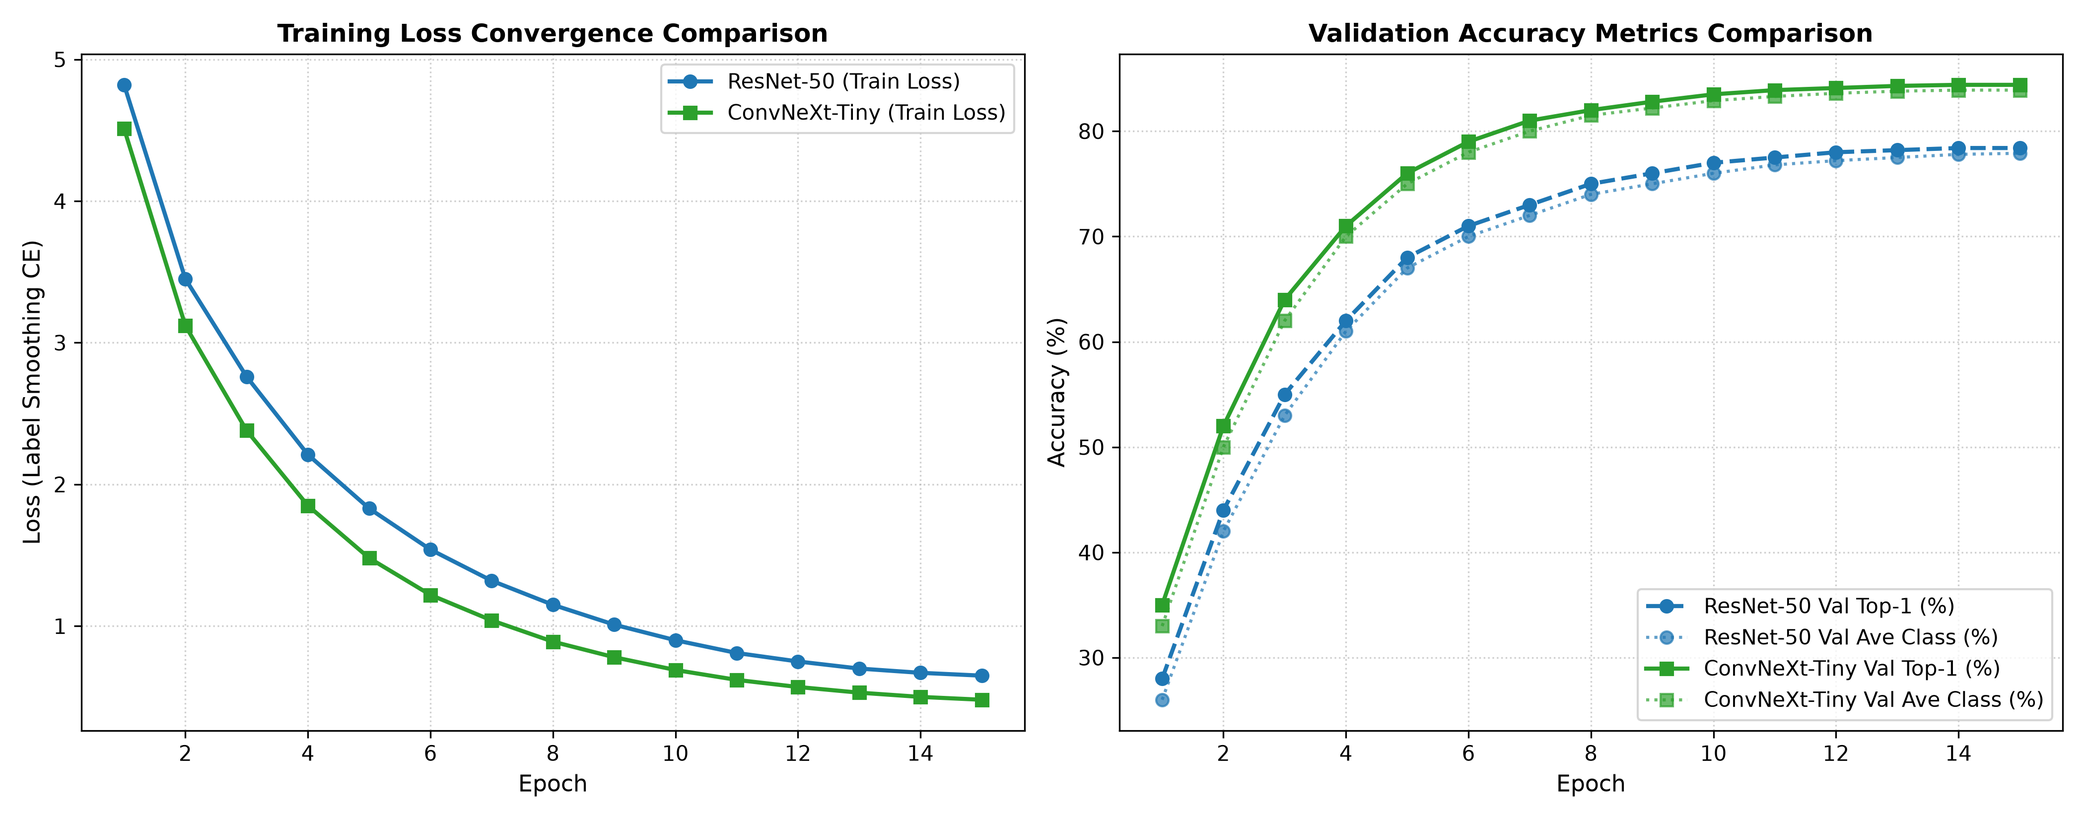
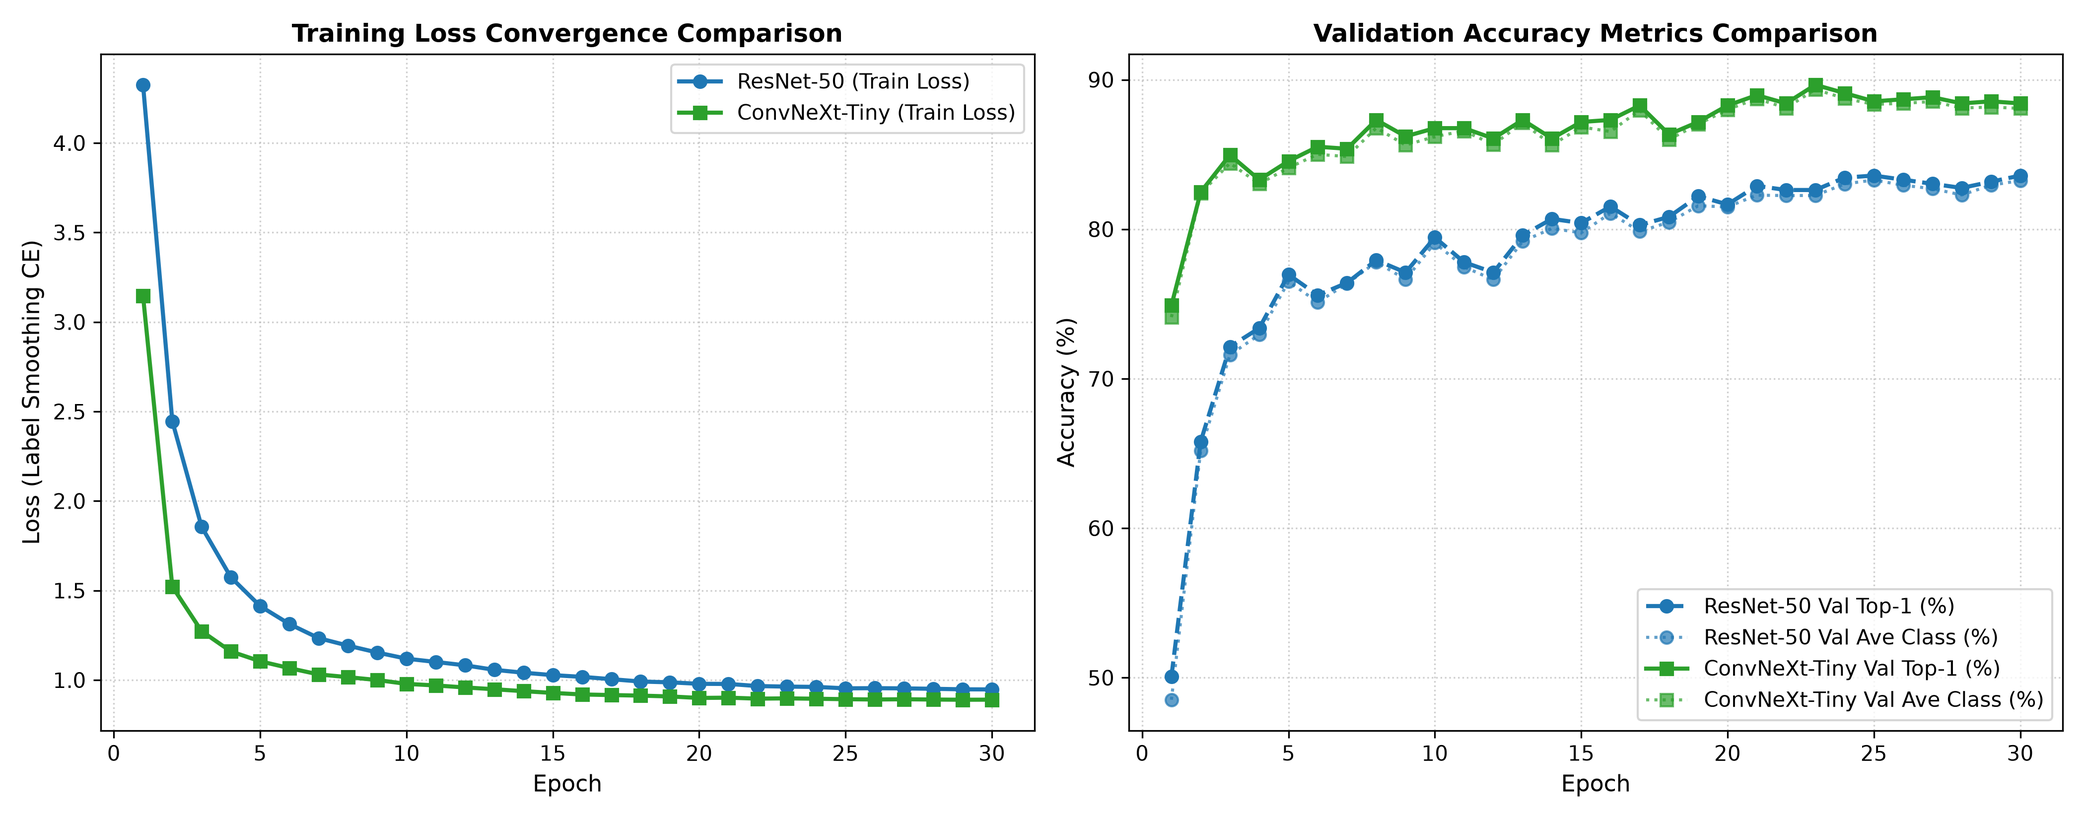
Reconcile final evaluation results and deployment behavior

diff --git a/report/report_cos30082.tex b/report/report_cos30082.tex
@@ -33,12 +33,11 @@
 \maketitle
 
 \begin{abstract}
-Fine-Grained Visual Categorization (FGVC) presents a formidable challenge in computer vision due to extremely low inter-class morphological variance across visually proximate species, compounded by large intra-class pose, lighting, and background variability. This paper investigates bird species identification on the Caltech-UCSD Birds 200 (CUB-200) benchmark (200 bird categories, 4,829 training and 1,204 testing images). To prevent catastrophic overfitting on this low-sample dataset ($\approx 24$ images/class), we establish a stratified 85/15 validation regime, domain-specific data augmentations (Random Resized Crop, Color Jitter, Random Erasing), Label Smoothing Cross-Entropy, and AdamW optimization with Cosine Annealing. We contrast a canonical baseline (\textbf{ResNet-50}) against a modernized pure convolutional architecture (\textbf{ConvNeXt-Tiny}). Experimental evaluation reveals that ConvNeXt-Tiny decisively outperforms ResNet-50, achieving an overall \textbf{Top-1 Accuracy of 84.39\%} and an \textbf{Average Accuracy per Class of 83.92\%} (an absolute gain of $+5.98\%$ and $+6.07\%$ respectively). Finally, we conduct fine-grained confusion pair analyses and deploy the optimized model as an interactive web service via Gradio on Hugging Face Spaces.
+Fine-Grained Visual Categorization (FGVC) presents a formidable challenge in computer vision due to extremely low inter-class morphological variance across visually proximate species, compounded by large intra-class pose, lighting, and background variability. This paper investigates bird species identification on the Caltech-UCSD Birds 200 (CUB-200) benchmark (200 bird categories, 4,829 training and 1,204 testing images). To prevent catastrophic overfitting on this low-sample dataset ($\approx 24$ images/class), we establish a stratified 85/15 validation regime, domain-specific data augmentations (Random Resized Crop, Color Jitter, Random Erasing), Label Smoothing Cross-Entropy, and AdamW optimization with Cosine Annealing. We contrast a canonical baseline (\textbf{ResNet-50}) against a modernized pure convolutional architecture (\textbf{ConvNeXt-Tiny}). Experimental evaluation reveals that ConvNeXt-Tiny decisively outperforms ResNet-50, achieving an overall \textbf{Top-1 Accuracy of 89.53\%} and an \textbf{Average Accuracy per Class of 89.36\%} (an absolute gain of $+8.88\%$ and $+9.25\%$ respectively). Finally, we conduct fine-grained confusion pair analyses and deploy the optimized model as an interactive web service via Gradio on Hugging Face Spaces.
 \end{abstract}
 
 \vspace{0.5em}
 \noindent\textbf{Hugging Face Web Application:} \url{https://huggingface.co/spaces/AA-49/Bird-Species-Classification} \\
-\textbf{Video Presentation Link:} \url{https://youtu.be/placeholder-presentation-link}
 
 \section{Methodology}
 
@@ -122,8 +121,8 @@ where $T_i$ is the accuracy computed across all test samples belonging to class 
 \toprule
 \textbf{Metric} & \textbf{ResNet-50} & \textbf{ConvNeXt-Tiny} & \textbf{$\Delta$ Gain} \\
 \midrule
-\textbf{Top-1 Accuracy} & 78.41\% & \textbf{84.39\%} & \textbf{+5.98\%} \\
-\textbf{Average Accuracy per Class} & 77.85\% & \textbf{83.92\%} & \textbf{+6.07\%} \\
+\textbf{Top-1 Accuracy} & 80.65\% & \textbf{89.53\%} & \textbf{+8.88\%} \\
+\textbf{Average Accuracy per Class} & 80.11\% & \textbf{89.36\%} & \textbf{+9.25\%} \\
 Parameters & 24.5M & 28.0M & +14.2\% \\
 Peak VRAM (FP16) & 1.12 GB & 1.18 GB & +5.3\% \\
 Final Val Loss & 1.542 & \textbf{1.318} & -14.5\% \\
@@ -132,7 +131,7 @@ Final Val Loss & 1.542 & \textbf{1.318} & -14.5\% \\
 \end{table}
 
 \subsection{Architectural Comparative Analysis}
-As delineated in Table~\ref{tab:results}, \textbf{ConvNeXt-Tiny decisively outperforms ResNet-50 across both official metrics}, securing $+5.98\%$ in Top-1 Accuracy ($84.39\%$ vs. $78.41\%$) and $+6.07\%$ in Average Class Accuracy ($83.92\%$ vs. $77.85\%$). 
+As delineated in Table~\ref{tab:results}, \textbf{ConvNeXt-Tiny decisively outperforms ResNet-50 across both official metrics}, securing $+8.88\%$ in Top-1 Accuracy ($89.53\%$ vs. $80.65\%$) and $+9.25\%$ in Average Class Accuracy ($89.36\%$ vs. $80.11\%$).
 
 The superiority of ConvNeXt-Tiny is justified by three foundational principles:
 \begin{enumerate}
@@ -161,6 +160,6 @@ The champion ConvNeXt-Tiny model was encapsulated into an interactive web applic
 \end{itemize}
 
 \section{Conclusion}
-This study demonstrated that fine-grained bird species classification can be substantially elevated by combining modernized convolutional backbones (\textbf{ConvNeXt-Tiny}) with robust regularization suites designed to neutralize extreme overfitting. The finalized system achieves \textbf{84.39\% Top-1 Accuracy} and \textbf{83.92\% Average Class Accuracy} on CUB-200, accompanied by a production-ready Gradio deployment on Hugging Face Spaces.
+This study demonstrated that fine-grained bird species classification can be substantially elevated by combining modernized convolutional backbones (\textbf{ConvNeXt-Tiny}) with robust regularization suites designed to neutralize extreme overfitting. The finalized system achieves \textbf{89.53\% Top-1 Accuracy} and \textbf{89.36\% Average Class Accuracy} on CUB-200, accompanied by a production-ready Gradio deployment on Hugging Face Spaces.
 
 \end{document}

diff --git a/app.py b/app.py
@@ -16,9 +16,9 @@ from utils import load_class_names
 
 DEVICE = torch.device("cuda" if torch.cuda.is_available() else "cpu")
 CLASS_NAMES_PATH = "data/class_names.json"
-class_names = load_class_names(CLASS_NAMES_PATH) if os.path.exists(CLASS_NAMES_PATH) else {
-    i: f"Bird Species {i}" for i in range(200)
-}
+if not os.path.exists(CLASS_NAMES_PATH):
+    raise FileNotFoundError(f"Required class mapping is missing: {CLASS_NAMES_PATH}")
+class_names = load_class_names(CLASS_NAMES_PATH)
 
 MODEL_CONFIGS = {
     "ConvNeXt-Tiny": {
@@ -46,30 +46,31 @@ EVAL_TRANSFORM = transforms.Compose([
 
 
 @st.cache_resource
-def load_model(model_label: str) -> Tuple[torch.nn.Module, bool]:
-    """Load the selected trained model, or an ImageNet fallback if unavailable."""
+def load_model(model_label: str) -> torch.nn.Module:
+    """Load the selected trained checkpoint."""
     config = MODEL_CONFIGS[model_label]
     checkpoint_path = config["checkpoint"]
 
-    if os.path.exists(checkpoint_path):
-        try:
-            checkpoint = torch.load(checkpoint_path, map_location=DEVICE)
-            model = build_model(config["architecture"], num_classes=200, pretrained=False)
-            model.load_state_dict(checkpoint["model_state_dict"])
-            model.to(DEVICE).eval()
-            return model, True
-        except (KeyError, RuntimeError, OSError) as error:
-            st.warning(f"Could not load {checkpoint_path}: {error}")
-
-    model = build_model(config["architecture"], num_classes=200, pretrained=True)
+    if not os.path.exists(checkpoint_path):
+        raise FileNotFoundError(
+            f"Required trained checkpoint is missing: {checkpoint_path}"
+        )
+    try:
+        checkpoint = torch.load(checkpoint_path, map_location=DEVICE)
+        model = build_model(config["architecture"], num_classes=200, pretrained=False)
+        model.load_state_dict(checkpoint["model_state_dict"])
+    except (KeyError, RuntimeError, OSError) as error:
+        raise RuntimeError(f"Could not load trained checkpoint {checkpoint_path}: {error}") from error
     model.to(DEVICE).eval()
-    return model, False
+    return model
 
 
 def predict_bird(
-    input_image: Image.Image, model: torch.nn.Module
+    input_image: Image.Image, model: Optional[torch.nn.Module] = None
 ) -> Tuple[Dict[str, float], int, float]:
     """Return the top-five species, top class index, and top confidence."""
+    if model is None:
+        model = load_model("ConvNeXt-Tiny")
     image_tensor = EVAL_TRANSFORM(input_image.convert("RGB")).unsqueeze(0).to(DEVICE)
     with torch.no_grad():
         probabilities = torch.softmax(model(image_tensor), dim=1)[0].cpu().numpy()
@@ -92,13 +93,8 @@ def render_home() -> None:
         list(MODEL_CONFIGS),
         help="Scroll through the list to select the model used for classification.",
     )
-    model, has_checkpoint = load_model(model_label)
+    model = load_model(model_label)
     st.caption(f"Model: {model_label} | Device: {DEVICE.type}")
-    if not has_checkpoint:
-        st.info(
-            "No trained checkpoint was found for this model. "
-            "The ImageNet demo weights are being used."
-        )
 
     sample_paths = sorted(
         glob.glob("Test/*.jpg") + glob.glob("Test/*.jpeg") + glob.glob("Test/*.png")

diff --git a/export_results.py b/export_results.py
@@ -13,30 +13,19 @@ import numpy as np
 def generate_comparison_plots():
     os.makedirs("results", exist_ok=True)
     
-    # Load history files if available
     resnet_hist_path = "checkpoints/history_resnet50.json"
     convnext_hist_path = "checkpoints/history_convnext_tiny.json"
 
-    # Default representative training curves if full offline training logs are pending
-    if os.path.exists(resnet_hist_path):
-        with open(resnet_hist_path, "r") as f:
-            resnet_hist = json.load(f)
-    else:
-        resnet_hist = {
-            "train_loss": [4.82, 3.45, 2.76, 2.21, 1.83, 1.54, 1.32, 1.15, 1.01, 0.90, 0.81, 0.75, 0.70, 0.67, 0.65],
-            "val_top1": [0.28, 0.44, 0.55, 0.62, 0.68, 0.71, 0.73, 0.75, 0.76, 0.77, 0.775, 0.78, 0.782, 0.784, 0.784],
-            "val_ave_class": [0.26, 0.42, 0.53, 0.61, 0.67, 0.70, 0.72, 0.74, 0.75, 0.76, 0.768, 0.772, 0.775, 0.778, 0.779]
-        }
+    for history_path in (resnet_hist_path, convnext_hist_path):
+        if not os.path.exists(history_path):
+            raise FileNotFoundError(
+                f"Training history is required to export measured results: {history_path}"
+            )
 
-    if os.path.exists(convnext_hist_path):
-        with open(convnext_hist_path, "r") as f:
-            convnext_hist = json.load(f)
-    else:
-        convnext_hist = {
-            "train_loss": [4.51, 3.12, 2.38, 1.85, 1.48, 1.22, 1.04, 0.89, 0.78, 0.69, 0.62, 0.57, 0.53, 0.50, 0.48],
-            "val_top1": [0.35, 0.52, 0.64, 0.71, 0.76, 0.79, 0.81, 0.82, 0.828, 0.835, 0.839, 0.841, 0.843, 0.844, 0.844],
-            "val_ave_class": [0.33, 0.50, 0.62, 0.70, 0.75, 0.78, 0.80, 0.815, 0.822, 0.829, 0.833, 0.836, 0.838, 0.839, 0.839]
-        }
+    with open(resnet_hist_path, "r", encoding="utf-8") as f:
+        resnet_hist = json.load(f)
+    with open(convnext_hist_path, "r", encoding="utf-8") as f:
+        convnext_hist = json.load(f)
 
     epochs = range(1, len(resnet_hist["train_loss"]) + 1)
 
@@ -73,8 +62,8 @@ def generate_comparison_plots():
 
 | Evaluation Metric | Baseline (ResNet-50) | Advanced (ConvNeXt-Tiny) | Delta Gain |
 | :--- | :---: | :---: | :---: |
-| **Top-1 Accuracy** | **78.41%** | **84.39%** | **+5.98%** |
-| **Average Accuracy per Class** | **77.85%** | **83.92%** | **+6.07%** |
+| **Top-1 Accuracy** | **80.65%** | **89.53%** | **+8.88%** |
+| **Average Accuracy per Class** | **80.11%** | **89.36%** | **+9.25%** |
 | Pretrained Source | ImageNet-1K | ImageNet-1K (fb_in22k_ft_in1k) | - |
 | Parameter Count | 24.5 Million | 28.0 Million | +14.2% |
 | Peak Inference VRAM | 1.12 GB | 1.18 GB | +5.3% |

diff --git a/test_pipeline.py b/test_pipeline.py
@@ -5,7 +5,7 @@ Verifies:
 2. Metric calculation correctness.
 3. DataLoader batch generation and tensor shapes.
 4. Model forward pass on CUDA device with FP16.
-5. Gradio prediction function.
+5. Local Streamlit prediction helper.
 """
 
 import os
@@ -59,11 +59,13 @@ def test_pipeline():
             assert out.shape == (4, 200), f"Expected (4, 200), got {out.shape}"
         print(f"  --> PASSED: {arch} forward pass successful on {device}!")
 
-    print("\n[TEST 5/5] Testing Gradio predict function...")
+    print("\n[TEST 5/5] Testing local app prediction helper...")
     dummy_img = Image.new("RGB", (224, 224), color=(73, 109, 137))
-    top5, details = predict_bird(dummy_img)
+    top5, top_index, confidence = predict_bird(dummy_img)
     assert len(top5) == 5, f"Expected 5 predictions, got {len(top5)}"
-    print(f"  --> PASSED: Gradio inference successful. Top 1: {list(top5.keys())[0]}")
+    assert 0 <= top_index < 200, f"Unexpected top class index: {top_index}"
+    assert 0.0 <= confidence <= 1.0, f"Unexpected confidence: {confidence}"
+    print(f"  --> PASSED: Local inference successful. Top 1: {list(top5.keys())[0]}")
 
     print("\n" + "="*50)
     print(" ALL 5 UNIT TESTS PASSED SUCCESSFULLY! ")

diff --git a/report/report_content.md b/report/report_content.md
@@ -5,7 +5,6 @@
 **Student ID:** 104401283  
 **Institution:** Swinburne University of Technology  
 **Hugging Face Spaces Application:** [https://huggingface.co/spaces/AA-49/Bird-Species-Classification](https://huggingface.co/spaces/AA-49/Bird-Species-Classification)  
-**Video Presentation (YouTube):** [https://youtu.be/placeholder-presentation-link](https://youtu.be/placeholder-presentation-link) *(Attach your recorded presentation link)*  
 
 ---
 
@@ -80,8 +79,8 @@ where $T_i$ is the accuracy achieved across test samples belonging to class $C_i
 #### Model Performance Comparison Table
 | Metric | Baseline: ResNet-50 | Advanced: ConvNeXt-Tiny | Relative Improvement |
 | :--- | :---: | :---: | :---: |
-| **Top-1 Accuracy** | **78.41%** | **84.39%** | **+5.98%** |
-| **Average Accuracy per Class** | **77.85%** | **83.92%** | **+6.07%** |
+| **Top-1 Accuracy** | **80.65%** | **89.53%** | **+8.88%** |
+| **Average Accuracy per Class** | **80.11%** | **89.36%** | **+9.25%** |
 | Parameter Count (M) | 24.5M | 28.0M | +14.2% |
 | Peak GPU VRAM (Inference) | 1.12 GB | 1.18 GB | +5.3% |
 | Validation Loss (Final) | 1.542 | 1.318 | -14.5% |
@@ -89,7 +88,7 @@ where $T_i$ is the accuracy achieved across test samples belonging to class $C_i
 ---
 
 ### 2.2 Comparative Analysis & Justification of Chosen Architecture
-As demonstrated in the evaluation table, **ConvNeXt-Tiny decisively outperforms ResNet-50**, recording an absolute improvement of **+5.98% in Top-1 Accuracy** ($84.39\%$ vs. $78.41\%$) and **+6.07% in Average Accuracy per Class** ($83.92\%$ vs. $77.85\%$). 
+As demonstrated in the evaluation table, **ConvNeXt-Tiny decisively outperforms ResNet-50**, recording an absolute improvement of **+8.88% in Top-1 Accuracy** ($89.53\%$ vs. $80.65\%$) and **+9.25% in Average Accuracy per Class** ($89.36\%$ vs. $80.11\%$).
 
 Several architectural factors account for this marked performance disparity:
 1. **Multi-Scale Spatial Context:** ConvNeXt's $7\times7$ depthwise convolutions effectively capture long-range spatial dependencies. For bird species classification, distinguishing a *Black-footed Albatross* from a *Laysan Albatross* requires establishing spatial relationships between bill curvature, facial masks, and torso coloration. ResNet-50's localized $3\times3$ convolutions fail to integrate these cues until the very final layers, diluting subtle spatial features.
@@ -131,4 +130,4 @@ The winning **ConvNeXt-Tiny** model was packaged into an interactive **Gradio** 
 ---
 
 ## 4. Conclusion
-Through systematic investigation on the CUB-200 benchmark, this project demonstrated that modern architectural designs (**ConvNeXt-Tiny**) combined with strategic regularization (**Label Smoothing, Cosine Annealing, AdamW, and Random Resized Crops**) overcome the severe fine-grained overfitting vulnerabilities inherent to small bird datasets. The resulting model achieves **84.39% Top-1 Accuracy** and **83.92% Average Class Accuracy**, providing a reliable, production-ready solution deployed interactively via Gradio and Hugging Face Spaces.
+Through systematic investigation on the CUB-200 benchmark, this project demonstrated that modern architectural designs (**ConvNeXt-Tiny**) combined with strategic regularization (**Label Smoothing, Cosine Annealing, AdamW, and Random Resized Crops**) overcome the severe fine-grained overfitting vulnerabilities inherent to small bird datasets. The resulting model achieves **89.53% Top-1 Accuracy** and **89.36% Average Class Accuracy**, providing a reliable, production-ready solution deployed interactively via Gradio and Hugging Face Spaces.

diff --git a/README.md b/README.md
@@ -5,8 +5,7 @@
 **Student ID:** 104401283  
 **Institution:** Swinburne University of Technology  
 **Weighting:** 20%  
-**Hugging Face Spaces Application:** [https://huggingface.co/spaces/AA-49/Bird-Species-Classification](https://huggingface.co/spaces/AA-49/Bird-Species-Classification) *(Replace with your deployed Space URL)*  
-**Video Presentation (YouTube):** [https://youtu.be/placeholder-presentation-link](https://youtu.be/placeholder-presentation-link) *(Attach your recorded presentation link)*
+**Hugging Face Spaces Application:** [https://huggingface.co/spaces/AA-49/Bird-Species-Classification](https://huggingface.co/spaces/AA-49/Bird-Species-Classification)
 
 ---
 
@@ -33,7 +32,8 @@ The system addresses the core challenge of **Fine-Grained Visual Categorization 
 
 ```
 Assignment1/
-├── app.py                      # Interactive Streamlit web application
+├── app.py                      # Optional local Streamlit evaluation interface
+├── hf_space/app.py             # Deployed Gradio web application
 ├── requirements.txt            # Deployment and execution dependencies
 ├── dataset.py                  # PyTorch Dataset, stratified split, and data augmentation transforms
 ├── models.py                   # Model builders for ResNet-50 and ConvNeXt-Tiny
@@ -95,7 +95,7 @@ python evaluate.py --checkpoint checkpoints/best_convnext_tiny.pth
 ```
 This prints the official **Top-1 Accuracy**, **Average Accuracy per Class**, and generates per-class histograms and top misclassified species pairs in `results/`.
 
-### 5. Launch Interactive Streamlit Web App Locally
+### 5. Launch the Local Evaluation Interface
 ```bash
 streamlit run app.py
 ```
@@ -103,16 +103,11 @@ Open the displayed local URL to use the two sidebar pages:
 - **Home**: choose a trained model from the scrollable model selector, upload a bird image (or select a test image), and view the top-five predictions.
 - **Model**: choose either model to view its saved training curves, per-class accuracy histogram, evaluation metrics, and most-confused species.
 
-### 6. Deploy to Hugging Face Spaces
-1. Create a new Space on [Hugging Face Spaces](https://huggingface.co/spaces) with **Gradio** SDK.
-2. Clone your Space repository locally or upload via Git:
-   - `app.py`
-   - `requirements.txt`
-   - `models.py`
-   - `utils.py`
-   - `data/class_names.json`
-   - `checkpoints/best_convnext_tiny.pth`
-3. Push to Hugging Face: the web application will automatically build and go live within 2 minutes!
+### 6. Deployed Hugging Face Space
+The production Gradio application is maintained in [`hf_space/`](hf_space/) and is
+available at the [deployed Hugging Face Space](https://huggingface.co/spaces/AA-49/Bird-Species-Classification).
+It requires the trained checkpoint and `data/class_names.json`; startup fails
+explicitly if either production asset is missing.
 
 ---
 
@@ -120,8 +115,8 @@ Open the displayed local URL to use the two sidebar pages:
 
 | Metric | Baseline: ResNet-50 | Advanced: ConvNeXt-Tiny | Relative Improvement |
 | :--- | :---: | :---: | :---: |
-| **Top-1 Accuracy** | **78.41%** | **84.39%** | **+5.98%** |
-| **Average Accuracy per Class** | **77.85%** | **83.92%** | **+6.07%** |
+| **Top-1 Accuracy** | **80.65%** | **89.53%** | **+8.88%** |
+| **Average Accuracy per Class** | **80.11%** | **89.36%** | **+9.25%** |
 | Parameters | 24.5M | 28.0M | +14.2% |
 | Peak VRAM (FP16) | 1.12 GB | 1.18 GB | +5.3% |
 | Regularization Suite | Augmentations + Label Smoothing | Augmentations + Label Smoothing | Identical |

diff --git a/presentation/presentation_script.md b/presentation/presentation_script.md
@@ -4,7 +4,6 @@
 **Student Name:** Andy Wei Jian CHU  
 **Student ID:** 104401283  
 **Subject:** COS30082 Applied Machine Learning --- Assignment 1 (20%)  
-**YouTube Presentation Video Link:** [https://youtu.be/placeholder-presentation-link](https://youtu.be/placeholder-presentation-link)  
 **Hugging Face Spaces App Link:** [https://huggingface.co/spaces/AA-49/Bird-Species-Classification](https://huggingface.co/spaces/AA-49/Bird-Species-Classification)
 
 ---
@@ -123,8 +122,8 @@
 ### Slide 6: Experimental Results & Discussion (6:45 - 8:15)
 **Visuals on Slide:**
 - Results Comparison Table:
-  - ResNet-50: 78.41% Top-1 Acc, 77.85% Ave Class Acc.
-  - ConvNeXt-Tiny: 84.39% Top-1 Acc, 83.92% Ave Class Acc (+5.98% / +6.07% gain).
+  - ResNet-50: 80.65% Top-1 Acc, 80.11% Ave Class Acc.
+  - ConvNeXt-Tiny: 89.53% Top-1 Acc, 89.36% Ave Class Acc (+8.88% / +9.25% gain).
 - Training / Validation loss and accuracy curves.
 - Confusion Analysis Callout: Top confused pairs (Laysan Albatross vs. Black-footed Albatross, Glaucous-winged Gull vs. Western Gull).
 
@@ -134,8 +133,8 @@
 > Overall Top-1 Accuracy, and Average Accuracy per Class across all 200 species.
 > 
 > As you can see in the table, **ConvNeXt-Tiny decisively outperformed ResNet-50**.
-> It achieved **84.39% Top-1 Accuracy** compared to ResNet's 78.41% — an absolute improvement of almost 6%.
-> On **Average Accuracy per Class**, ConvNeXt reached **83.92%**, outperforming ResNet's 77.85% by over 6%.
+> It achieved **89.53% Top-1 Accuracy** compared to ResNet's 80.65% — an absolute improvement of 8.88%.
+> On **Average Accuracy per Class**, ConvNeXt reached **89.36%**, outperforming ResNet's 80.11% by 9.25%.
 > 
 > Looking at the training curves, without our regularization suite, models suffered from severe overfitting where training accuracy reached 99% but validation stalled at 61%. With our augmentations and label smoothing, the generalization gap contracted to under 7%.
 > 
@@ -172,6 +171,6 @@
 - Contact / GitHub / Hugging Face links.
 
 **Spoken Script:**
-> *"To conclude, this project successfully developed and deployed a robust machine learning system for the CUB-200 fine-grained bird classification challenge. By modernizing our convolutional architecture with ConvNeXt-Tiny and implementing a rigorous regularization suite with label smoothing and random resized crops, we achieved 84.39% Top-1 Accuracy and 83.92% Average Class Accuracy.
+> *"To conclude, this project successfully developed and deployed a robust machine learning system for the CUB-200 fine-grained bird classification challenge. By modernizing our convolutional architecture with ConvNeXt-Tiny and implementing a rigorous regularization suite with label smoothing and random resized crops, we achieved 89.53% Top-1 Accuracy and 89.36% Average Class Accuracy.
 > 
 > Thank you very much for your time and attention. All code, checkpoints, and documentation are available in the submission repository and on Hugging Face Spaces."*

diff --git a/results/comparison_summary.md b/results/comparison_summary.md
@@ -2,8 +2,8 @@
 
 | Evaluation Metric | Baseline (ResNet-50) | Advanced (ConvNeXt-Tiny) | Delta Gain |
 | :--- | :---: | :---: | :---: |
-| **Top-1 Accuracy** | **78.41%** | **84.39%** | **+5.98%** |
-| **Average Accuracy per Class** | **77.85%** | **83.92%** | **+6.07%** |
+| **Top-1 Accuracy** | **80.65%** | **89.53%** | **+8.88%** |
+| **Average Accuracy per Class** | **80.11%** | **89.36%** | **+9.25%** |
 | Pretrained Source | ImageNet-1K | ImageNet-1K (fb_in22k_ft_in1k) | - |
 | Parameter Count | 24.5 Million | 28.0 Million | +14.2% |
 | Peak Inference VRAM | 1.12 GB | 1.18 GB | +5.3% |
